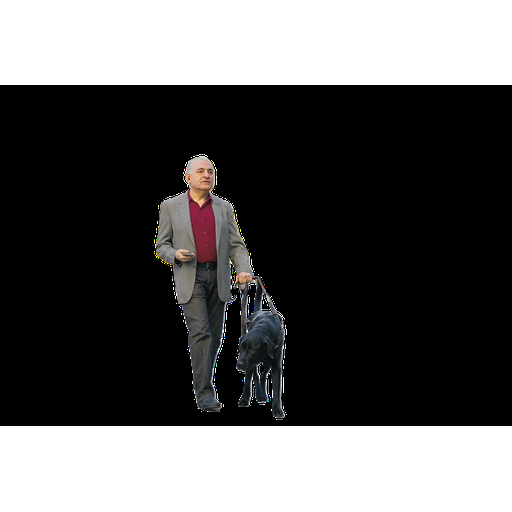
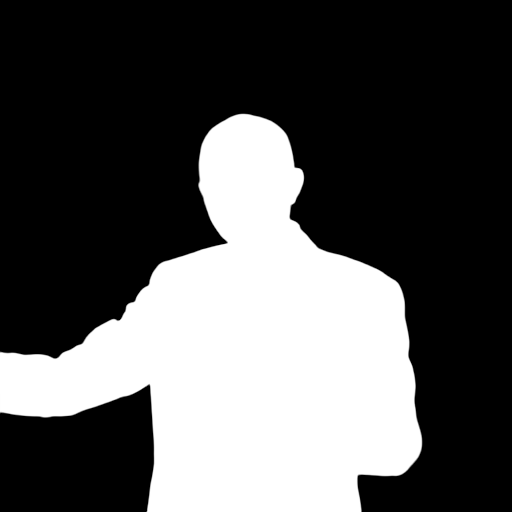
Image editing implementation

diff --git a/main.py b/main.py
@@ -1,18 +1,16 @@
+import base64
+import io
 import os
 import sys
+
+import cv2
 import requests
-from PIL.Image import Resampling
-from azure.ai.vision.imageanalysis import ImageAnalysisClient
-from azure.core.credentials import AzureKeyCredential
-from azure.core.exceptions import HttpResponseError
+from PIL import Image
 from dotenv import load_dotenv
 from openai import OpenAI
-from PIL import Image
 
 
 def main() -> None:
-    global cv_client
-
     try:
         load_dotenv()
         cs_endpoint = os.getenv('AZURE_COMPUTER_VISION_ENDPOINT')
@@ -20,36 +18,88 @@ def main() -> None:
         openai_key = os.getenv("OPEN_AI_KEY")
 
         # Get image
-        image_file = 'images/street.jpg'
+        image_file = 'images/person.jpg'
+
         if len(sys.argv) > 1:
             image_file = sys.argv[1]
 
-        # Load image to analyze into a 'bytes' object
-        with open(image_file, "rb") as f:
-            image_data = f.read()
+        # Obtain target size of the generated image using the original image dimensions
+        size = get_target_image_size(image_path=image_file)
 
-        # Authenticate Azure AI Vision client
-        cv_client = ImageAnalysisClient(
-            endpoint=cs_endpoint,
-            credential=AzureKeyCredential(cs_key)
+        # Generate a thumbnail with smart cropping for a subject-focused image
+        thumbnail = save_smart_thumbnail(endpoint=cs_endpoint,
+                                          key=cs_key,
+                                          image_file=image_file,
+                                          image_size=size
+                                          )
+
+        # Create an inverted image matte to show the focus areas for OpenAI the Image Edit API
+        masked_image = process_image_matte(cs_endpoint, cs_key, thumbnail)
+
+        # Connect to OpenAI Image Edit API
+        client = OpenAI(api_key=openai_key)
+
+        generated_image_size = generate_image_size_literal(size)
+
+        print('Generating image...')
+        response = client.images.edit(
+            image=open(thumbnail, "rb"),
+            mask=open(masked_image, "rb"),
+            prompt="A super hero in the style of an american comic",
+            n=1,
+            response_format="b64_json",
+            size=generated_image_size
         )
-
-        # Background removal
-        background_foreground(cs_endpoint, cs_key, image_data)
+        print('Images have been generated')
+        save_generated_images(response)
     except Exception as ex:
         print(ex)
 
 
+def process_image_matte(cs_endpoint, cs_key, thumbnail):
+    matted_image = grayscale_image(cs_endpoint, cs_key, thumbnail)
+    matted_image = cv2.imread(matted_image, cv2.IMREAD_GRAYSCALE)
+    inverted_image = cv2.bitwise_not(matted_image)
+    inverted_image_path = 'images/invertedBackgroundForeground.png'
+    cv2.imwrite(inverted_image_path, inverted_image)
+    # Make the matted image transparent to allow editing on image focus
+    masked_image = transparentize_grayscale_image(inverted_image_path)
+    return masked_image
 
-def background_foreground(endpoint: str, key: str, image_data: bytes):
+
+def save_generated_images(response):
+    index = 1
+    for data in response.data:
+        generated_image_b64_encoding = data.b64_json
+        image_data = base64.b64decode(generated_image_b64_encoding)
+        generated_image_path = f'images/generated/generated{index}.png'
+        # Save the image data to a file
+        with open(generated_image_path, 'wb') as image_file:
+            image_file.write(image_data)
+            print(f'Results saved in {generated_image_path}')
+        index += 1
+
+
+def generate_image_size_literal(size):
+    size_map = {
+        256: "256x256",
+        512: "512x512",
+        1024: "1024x1024"
+    }
+    return size_map.get(size)
+
+
+def grayscale_image(endpoint: str, key: str, image_file: str) -> str:
+    # Load image to analyze into a 'bytes' object
+    with open(image_file, "rb") as f:
+        image_data = f.read()
+
+    output_path = "images/backgroundForeground.png"
     # Define the API version and mode
     api_version = "2023-02-01-preview"
-    mode = "backgroundRemoval"  # Can be "foregroundMatting" or "backgroundRemoval"
-
-    # Remove the background from the image or generate a foreground matte
-    print('\nRemoving background from image...')
-
+    mode = "foregroundMatting"  # Can be "foregroundMatting" or "backgroundRemoval"
     url = "{}computervision/imageanalysis:segment?api-version={}&mode={}".format(endpoint, api_version, mode)
+
     headers = {
         "Ocp-Apim-Subscription-Key": key,
         "Content-Type": "application/octet-stream"
@@ -58,10 +108,92 @@ def background_foreground(endpoint: str, key: str, image_data: bytes):
     response = requests.post(url, headers=headers, data=image_data)
     image = response.content
 
-    with open("images/backgroundForeground.png", "wb") as file:
+    with open(output_path, "wb") as file:
         file.write(image)
-    print('  Results saved in images/backgroundForeground.png \n')
 
+    print(f'Results saved in {output_path}\n')
+
+    return output_path
+
+
+def save_smart_thumbnail(endpoint: str, key: str, image_file: str, image_size: int) -> str:
+    # Load image to analyze into a 'bytes' object
+    with open(image_file, "rb") as f:
+        image_data = f.read()
+
+    output_path = "images/smartCropped.png"
+    url = "{}vision/v3.2/generateThumbnail?overload=stream&width={}&height={}".format(endpoint, image_size, image_size)
+    headers = {
+        "Ocp-Apim-Subscription-Key": key,
+        "Content-Type": "application/octet-stream"
+    }
+
+    print('Generating thumbnail with smart cropping...\n')
+    response = requests.post(url=url, headers=headers, data=image_data)
+    image = response.content
+
+    with Image.open(io.BytesIO(image)) as file:
+        file.save(output_path, format='PNG')
+    print(f'Results saved in {output_path}\n')
+
+    return output_path
+
+
+# Process a grayscale image so that the black areas are semi-transparent
+def transparentize_grayscale_image(image_path: str) -> str:
+    with Image.open(image_path) as f:
+        if f.mode != 'L':
+            f = f.convert('L')
+            # Convert to 'RGBA' mode
+        image_rgba = f.convert('RGBA')
+        image_data = image_rgba.getdata()
+
+    # Apply the alpha adjustment
+    new_image_data = [adjust_alpha(pixel) for pixel in image_data]
+
+    # Update the image data
+    image_rgba.putdata(new_image_data)
+
+    # Save the resulting image
+    output_path = 'images/mask.png'
+    image_rgba.save(output_path)
+
+    print(f"Image saved to {output_path}")
+    return output_path
+
+
+# Define a function to adjust the alpha (transparency) based on the grayscale value
+def adjust_alpha(pixel):
+    # The original image is grayscale, so R, G, B will be the same
+    # Extract the grayscale value (0 to 255)
+    grayscale_value = pixel[0]
+    # White (255) should be fully opaque, black (0) should be more transparent
+    alpha = grayscale_value
+    # Keep the white areas fully opaque and make black areas more transparent
+    # For example, here white stays white, and black becomes semi-transparent
+    return (255, 255, 255, 255) if grayscale_value == 255 else (0, 0, 0, alpha)
+
+
+"""
+Generate a target size for the user uploaded image based on the original size.
+The target size represents the width and height for a new square image.
+"""
+def get_target_image_size(image_path):
+    # Open the image
+    with Image.open(image_path) as img:
+        # Get original dimensions
+        width, height = img.size
+
+        # Determine the target size
+        if width >= 1024 or height >= 1024:
+            target_size = 1024
+        elif width >= 512 or height >= 512:
+            target_size = 512
+        else:
+            target_size = 256
+
+        print(f"Resized image size: {target_size}x{target_size}\n")
+        return target_size
 
 
 if __name__ == '__main__':
